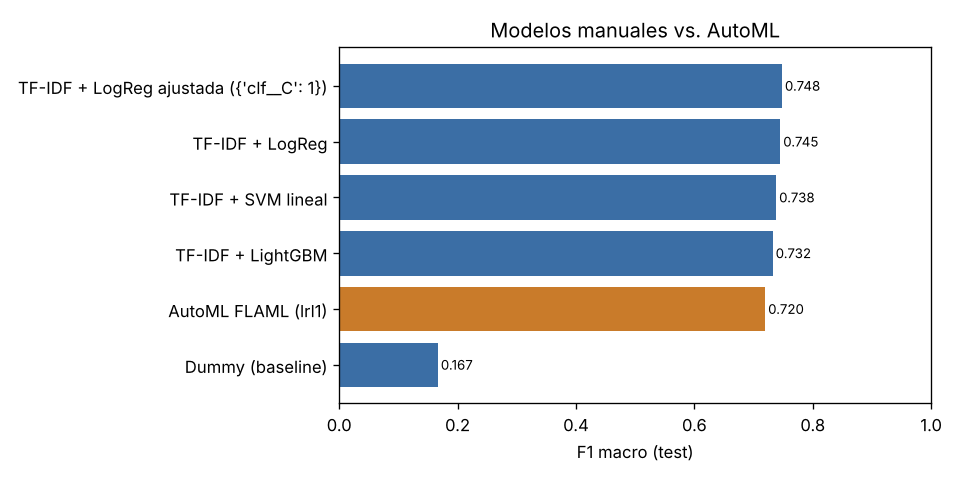
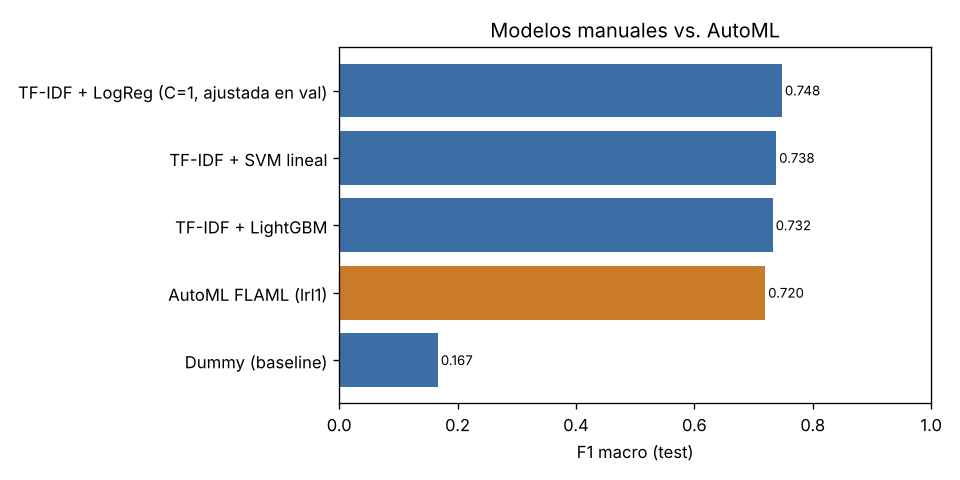
Selección de modelo por validación (64/16/20); test solo para el reporte final

diff --git a/src/train.py b/src/train.py
@@ -1,24 +1,31 @@
-"""Baseline + 3 modelos clásicos + tuning del mejor lineal (reproduce el notebook 02).
+"""Baseline + 3 modelos clásicos + tuning, con selección por VALIDACIÓN (el test no se usa para elegir).
 
-Uso:  python -m src.train            (todos los modelos, ~8 min por LightGBM)
+Protocolo (train / validación / test = 64 / 16 / 20 %, estratificado, semilla fija):
+  1. train se divide en sub-train y validación (data/split.csv ya separa el test).
+  2. Cada modelo y cada valor de C de la LogReg se entrena en sub-train y se evalúa en validación.
+  3. Se elige el modelo con mejor F1 macro de validación.
+  4. Solo después, cada modelo se reentrena con todo train y se evalúa UNA vez en test (reporte final).
+
+Uso:  python -m src.train            (todos los modelos, ≈ 20 min por LightGBM)
       python -m src.train --rapido   (sin LightGBM)
 
-Salidas: reports/resultados_modelos.csv, models/sentiment_logreg.joblib
+Salidas: reports/resultados_modelos.csv, reports/tuning_logreg_val.csv,
+         models/sentiment_logreg.joblib (modelo elegido, reentrenado con todo train)
 """
 from __future__ import annotations
 
 import argparse
-import json
 import time
 
 import joblib
 import pandas as pd
 from lightgbm import LGBMClassifier
+from sklearn.base import clone
 from sklearn.dummy import DummyClassifier
 from sklearn.feature_extraction.text import TfidfVectorizer
 from sklearn.linear_model import LogisticRegression
 from sklearn.metrics import accuracy_score, f1_score
-from sklearn.model_selection import GridSearchCV
+from sklearn.model_selection import train_test_split
 from sklearn.pipeline import Pipeline
 from sklearn.svm import LinearSVC
 
@@ -32,14 +39,17 @@ def tfidf(cfg: dict, max_features: int | None = None) -> TfidfVectorizer:
                            max_features=max_features or t["max_features"])
 
 
+def logreg(cfg: dict, C: float) -> Pipeline:
+    return Pipeline([("tfidf", tfidf(cfg)),
+                     ("clf", LogisticRegression(C=C, max_iter=cfg["models"]["logreg"]["max_iter"]))])
+
+
 def build_models(cfg: dict, rapido: bool = False) -> dict[str, Pipeline]:
     m, seed = cfg["models"], cfg["seed"]
-    # El TF-IDF va dentro del Pipeline: se ajusta solo con train (evita data leakage).
+    # El TF-IDF va dentro del Pipeline: se ajusta solo con los datos de entrenamiento (evita leakage).
     modelos = {
         "Dummy (baseline)": Pipeline([("tfidf", tfidf(cfg, 1000)),
                                       ("clf", DummyClassifier(strategy=m["dummy"]["strategy"]))]),
-        "TF-IDF + LogReg": Pipeline([("tfidf", tfidf(cfg)),
-                                     ("clf", LogisticRegression(C=m["logreg"]["C"], max_iter=m["logreg"]["max_iter"]))]),
         "TF-IDF + SVM lineal": Pipeline([("tfidf", tfidf(cfg)), ("clf", LinearSVC(C=m["svm"]["C"]))]),
     }
     if not rapido:
@@ -60,34 +70,45 @@ def metricas(y_true, y_pred) -> dict:
 def main(rapido: bool = False):
     cfg = load_config()
     X_tr, X_te, y_tr, y_te = get_split(cfg)
+    val_size = cfg["data"].get("val_size", 0.2)
+    X_sub, X_val, y_sub, y_val = train_test_split(X_tr, y_tr, test_size=val_size,
+                                                  stratify=y_tr, random_state=cfg["seed"])
+    print(f"sub-train={len(X_sub)}  validación={len(X_val)}  test={len(X_te)} (test no se usa para elegir)")
 
-    filas = []
-    for nombre, modelo in build_models(cfg, rapido).items():
+    # 1) Tuning de C de la LogReg en validación
+    tun = []
+    for C in cfg["tuning"]["grid"]:
+        p = logreg(cfg, C).fit(X_sub, y_sub).predict(X_val)
+        tun.append({"C": C, "f1_val": f1_score(y_val, p, average="macro")})
+        print(f"LogReg C={C:<4} F1 val = {tun[-1]['f1_val']:.4f}")
+    tun = pd.DataFrame(tun)
+    C_best = float(tun.loc[tun.f1_val.idxmax(), "C"])
+
+    candidatos = build_models(cfg, rapido)
+    candidatos[f"TF-IDF + LogReg (C={C_best:g}, ajustada en val)"] = logreg(cfg, C_best)
+
+    # 2) Selección en validación y 3) reporte final en test
+    filas, finales = [], {}
+    for nombre, modelo in candidatos.items():
         t0 = time.time()
-        modelo.fit(X_tr, y_tr)
-        filas.append({"modelo": nombre, **metricas(y_te, modelo.predict(X_te)),
+        m_val = clone(modelo).fit(X_sub, y_sub)
+        f1_val = f1_score(y_val, m_val.predict(X_val), average="macro")
+        m_fin = clone(modelo).fit(X_tr, y_tr)          # reentrenado con todo train
+        finales[nombre] = m_fin
+        filas.append({"modelo": nombre, "f1_val": f1_val, **metricas(y_te, m_fin.predict(X_te)),
                       "seg": round(time.time() - t0, 1)})
-        print(f"{nombre:22s} F1 macro = {filas[-1]['f1_macro']:.4f}")
+        print(f"{nombre:40s} F1 val = {f1_val:.4f}  F1 test = {filas[-1]['f1_macro']:.4f}")
 
-    # Ajuste de hiperparámetros con validación cruzada SOLO sobre train.
-    tcfg = cfg["tuning"]
-    base = build_models(cfg, rapido=True)["TF-IDF + LogReg"]
-    t0 = time.time()
-    grid = GridSearchCV(base, {f"clf__{tcfg['param']}": tcfg["grid"]},
-                        scoring=tcfg["scoring"], cv=tcfg["cv"], n_jobs=-1)
-    grid.fit(X_tr, y_tr)
-    mejor = grid.best_estimator_
-    filas.append({"modelo": f"TF-IDF + LogReg ajustada ({grid.best_params_})",
-                  **metricas(y_te, mejor.predict(X_te)), "seg": round(time.time() - t0, 1)})
-    print("Mejor:", grid.best_params_, "F1 CV:", round(grid.best_score_, 4))
+    res = pd.DataFrame(filas).sort_values("f1_val", ascending=False)
+    elegido = res.iloc[0].modelo
+    res["elegido_por_validacion"] = res.modelo == elegido
+    print(f"\nElegido por validación: {elegido}")
 
-    res = pd.DataFrame(filas).sort_values("f1_macro", ascending=False)
-    (ROOT / cfg["paths"]["reports"]).mkdir(exist_ok=True)
-    res.to_csv(ROOT / cfg["paths"]["reports"] / "resultados_modelos.csv", index=False)
-    pd.DataFrame(grid.cv_results_)[["params", "mean_test_score", "std_test_score"]].to_csv(
-        ROOT / cfg["paths"]["reports"] / "tuning_logreg_cv.csv", index=False)
+    rep = ROOT / cfg["paths"]["reports"]; rep.mkdir(exist_ok=True)
+    res.to_csv(rep / "resultados_modelos.csv", index=False)
+    tun.to_csv(rep / "tuning_logreg_val.csv", index=False)
     (ROOT / cfg["paths"]["models"]).mkdir(exist_ok=True)
-    joblib.dump(mejor, ROOT / cfg["paths"]["models"] / "sentiment_logreg.joblib")
+    joblib.dump(finales[elegido], ROOT / cfg["paths"]["models"] / "sentiment_logreg.joblib")
     print(res.to_string(index=False))
 
 

diff --git a/src/automl.py b/src/automl.py
@@ -51,15 +51,32 @@ def main(budget: int | None = None):
     (rep / "automl_resultado.json").write_text(json.dumps(resultado, indent=2, default=str), encoding="utf-8")
     print(json.dumps(resultado, indent=2, default=str))
 
-    # Tabla comparativa final: modelos manuales + mejor de AutoML
+    actualizar_comparativa(cfg, resultado)
+
+
+def actualizar_comparativa(cfg: dict, resultado: dict | None = None):
+    """Tabla final: modelos manuales + mejor de AutoML (sin volver a correr AutoML)."""
+    rep = ROOT / cfg["paths"]["reports"]
+    if resultado is None:
+        resultado = json.loads((rep / "automl_resultado.json").read_text(encoding="utf-8"))
     manual = pd.read_csv(rep / "resultados_modelos.csv")
-    fila = {"modelo": f"AutoML FLAML ({automl.best_estimator})", "accuracy": resultado["accuracy"],
-            "f1_macro": resultado["f1_macro"], "f1_neutro": resultado["f1_neutro"], "seg": seg}
+    fila = {"modelo": f"AutoML FLAML ({resultado['mejor_estimador']})",
+            "f1_val": resultado["f1_cv"],   # F1 de CV de 3 folds dentro de train
+            "accuracy": resultado["accuracy"], "f1_macro": resultado["f1_macro"],
+            "f1_neutro": resultado["f1_neutro"], "seg": resultado["seg_total"],
+            "elegido_por_validacion": False}
     comp = pd.concat([manual[~manual.modelo.str.startswith("AutoML")], pd.DataFrame([fila])])
-    comp.sort_values("f1_macro", ascending=False).to_csv(rep / "comparativa_final.csv", index=False)
+    comp.sort_values("f1_val", ascending=False).to_csv(rep / "comparativa_final.csv", index=False)
+    print(comp.to_string(index=False))
 
 
 if __name__ == "__main__":
     ap = argparse.ArgumentParser()
     ap.add_argument("--budget", type=int, help="segundos de búsqueda (por defecto: config)")
-    main(ap.parse_args().budget)
+    ap.add_argument("--solo-comparativa", action="store_true",
+                    help="no corre AutoML; rearma comparativa_final.csv con el último resultado")
+    args = ap.parse_args()
+    if args.solo_comparativa:
+        actualizar_comparativa(load_config())
+    else:
+        main(args.budget)

diff --git a/README.md b/README.md
@@ -31,7 +31,7 @@ python -m venv .venv && .venv\Scripts\activate      # Windows  (Linux/Mac: sourc
 pip install -r requirements.txt
 
 python -m src.preprocess      # crea data/split.csv (80/20 estratificado, semilla 42)
-python -m src.train           # Dummy + LogReg + SVM + LightGBM + tuning (≈ 10 min; --rapido sin LightGBM)
+python -m src.train           # Dummy + SVM + LightGBM + LogReg con C ajustado en validación (≈ 17 min; --rapido sin LightGBM)
 python -m src.evaluate        # matriz de confusión, reporte por clase, errores, palabras por clase
 python -m src.unsupervised    # LSA + KMeans, selección de k por silueta, interpretación
 python -m src.automl          # FLAML, misma partición, 15 min (--budget 120 para una prueba)
@@ -40,8 +40,9 @@ python -m src.report_automl   # gráficos de evidencia de AutoML
 Orden recomendado: `preprocess → train → evaluate → unsupervised → automl`. Todo lee `config/config.yaml`.
 
 ## Metodología y decisiones
-- **Partición:** 80 % train / 20 % test estratificado, fija en `data/split.csv`. El ajuste de hiperparámetros
-  usa validación cruzada de 3 folds **solo dentro de train**; el test se usa una vez al final.
+- **Partición:** train / validación / test = 64 / 16 / 20 %, estratificado y con semilla fija (`data/split.csv`
+  separa el test). Los hiperparámetros y el modelo final se eligen **con validación**; después el modelo se
+  reentrena con todo train y el test se usa **una sola vez** para el reporte final.
 - **Sin data leakage:**
   - el TF-IDF va dentro del `Pipeline`, así que se ajusta solo con train;
   - duplicados eliminados antes de muestrear;
@@ -51,19 +52,21 @@ Orden recomendado: `preprocess → train → evaluate → unsupervised → autom
 - **Limpieza:** minúsculas, sin URLs ni números, negaciones conservadas (`don't → do not`) y `! ?`.
 - **Métrica principal:** F1 macro (las 3 clases pesan igual; el neutro es la clase difícil).
 
-## Resultados (test, 10 000 reseñas, sin títulos automáticos)
-| Modelo | Accuracy | F1 macro | F1 neutro | Tiempo | Observación |
-|---|---|---|---|---|---|
-| Dummy (clase más frecuente) | 0,333 | 0,167 | 0,000 | 7 s | Baseline / piso |
-| **TF-IDF + LogReg ajustada (C=1)** | **0,748** | **0,748** | **0,653** | 118 s* | Mejor modelo manual |
-| TF-IDF + LogReg (C=2) | 0,745 | 0,745 | 0,647 | 18 s | |
-| TF-IDF + SVM lineal | 0,739 | 0,738 | 0,634 | 10 s | |
-| TF-IDF + LightGBM | 0,732 | 0,732 | 0,632 | 499 s | |
-| AutoML FLAML (lrl1, 15 min) | 0,720 | 0,720 | 0,625 | 954 s | Benchmark |
+## Resultados
+Selección con **validación** (16 % de los datos); el test (20 %) se usa una sola vez, al final.
 
-\* incluye la búsqueda de C con CV de 3 folds. Detalle en `reports/comparativa_final.csv`;
-evidencia de AutoML en `reports/automl_resultado.json`, `reports/automl_trials.csv`, `reports/automl.log`
-y `reports/figures/automl_curva.png`.
+| Modelo | F1 macro validación | F1 macro test | F1 neutro test | Tiempo | Observación |
+|---|---|---|---|---|---|
+| Dummy (clase más frecuente) | 0,167 | 0,167 | 0,000 | 13 s | Baseline / piso |
+| **TF-IDF + LogReg (C=1)** | **0,739** | **0,748** | **0,653** | 34 s | **Elegido por validación** |
+| TF-IDF + LightGBM | 0,732 | 0,732 | 0,632 | 860 s | |
+| TF-IDF + SVM lineal | 0,731 | 0,738 | 0,634 | 18 s | |
+| AutoML FLAML (lrl1, 15 min) | 0,721 (CV) | 0,720 | 0,625 | 954 s | Benchmark |
+
+C de la LogReg elegido en validación entre {0,5; 1; 2; 4; 8} (`reports/tuning_logreg_val.csv`).
+Tiempos: entrenamiento en sub-train + reentrenamiento con todo train, en 2 núcleos.
+Detalle en `reports/comparativa_final.csv`; evidencia de AutoML en `reports/automl_resultado.json`,
+`reports/automl_trials.csv`, `reports/automl.log` y `reports/figures/automl_curva.png`.
 
 ## Estado del EC2
 - [x] Fuente, subconjunto y etiqueta documentados

diff --git a/reports/defensa/seccion_automl.md b/reports/defensa/seccion_automl.md
@@ -13,25 +13,25 @@
   `reports/automl_trials.csv` (todos los trials), `reports/figures/automl_curva.png`.
 
 ## Resultados
-| Modelo | F1 macro (test) | F1 neutro | Tiempo |
-|---|---|---|---|
-| TF-IDF + LogReg ajustada (mejor manual) | **0,748** | **0,653** | 118 s |
-| TF-IDF + LightGBM (manual) | 0,732 | 0,632 | 499 s |
-| **Mejor de AutoML: FLAML → regresión logística L1 (C=1)** | 0,720 | 0,625 | 954 s |
-| Dummy (baseline) | 0,167 | 0,000 | 7 s |
+| Modelo | F1 macro validación | F1 macro test | F1 neutro test | Tiempo |
+|---|---|---|---|---|
+| TF-IDF + LogReg C=1 (mejor manual, elegido por validación) | **0,739** | **0,748** | **0,653** | 34 s |
+| TF-IDF + LightGBM (manual) | 0,732 | 0,732 | 0,632 | 860 s |
+| **Mejor de AutoML: FLAML → regresión logística L1 (C=1)** | 0,721 (CV 3 folds) | 0,720 | 0,625 | 954 s |
+| Dummy (baseline) | 0,167 | 0,167 | 0,000 | 13 s |
 
 FLAML ejecutó 11 trials en 15 minutos: 9 de LightGBM (F1 de validación hasta 0,694), 1 de XGBoost (0,701) y
 1 de regresión logística L1 (0,721), que fue el mejor. No llegó a probar Random Forest ni Extra Trees.
 
 ## Discusión de trade-offs
-- **Rendimiento:** AutoML quedó 2,8 puntos de F1 por debajo del mejor modelo manual. La causa principal es la
+- **Rendimiento:** AutoML quedó 2,8 puntos de F1 en test (1,8 en validación) por debajo del mejor modelo manual. La causa principal es la
   representación: al comprimir el TF-IDF de 100 000 términos a 300 componentes con SVD se pierde información
   léxica fina (negaciones, bigramas como "stopped working"), que es justo lo que aprovecha la regresión
   logística manual sobre el TF-IDF disperso completo.
 - **Hallazgo coincidente:** sin que se lo indicáramos, AutoML también terminó eligiendo un **modelo lineal**
   por encima de los árboles con boosting. Esto respalda nuestra conclusión manual: en texto representado con
   TF-IDF, los modelos lineales bastan y los árboles no compensan su costo.
-- **Tiempo:** AutoML usó 954 s contra 118 s de la LogReg ajustada (8 veces más) para un resultado peor. Con
+- **Tiempo:** AutoML usó 954 s contra 34 s de la LogReg manual (unas 28 veces más) para un resultado peor. Con
   2 núcleos solo alcanzó a evaluar 11 configuraciones; con más presupuesto o más núcleos podría acercarse.
 - **Interpretabilidad:** la LogReg manual sobre TF-IDF permite leer las palabras que empujan a cada clase.
   El modelo de AutoML opera sobre componentes SVD, que no se pueden leer como palabras.
